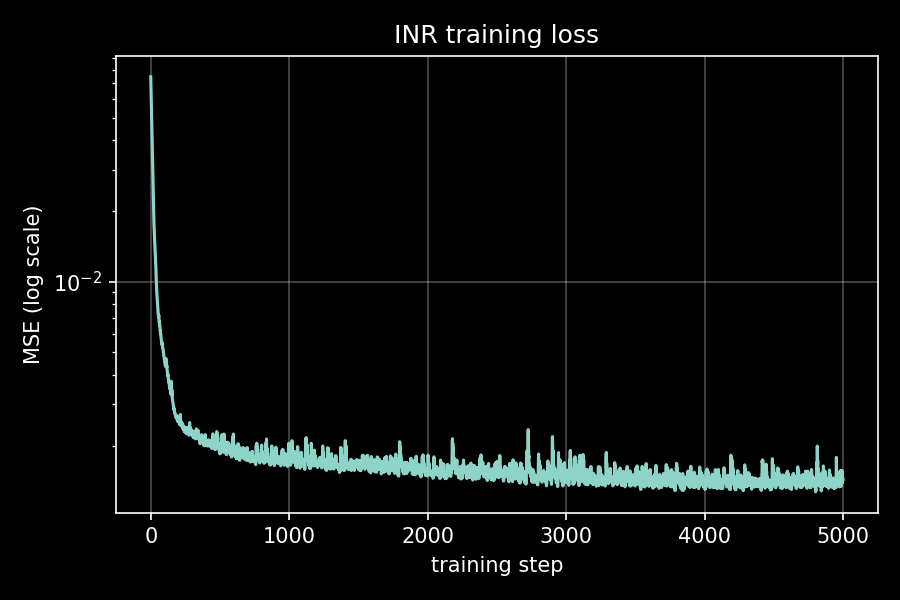
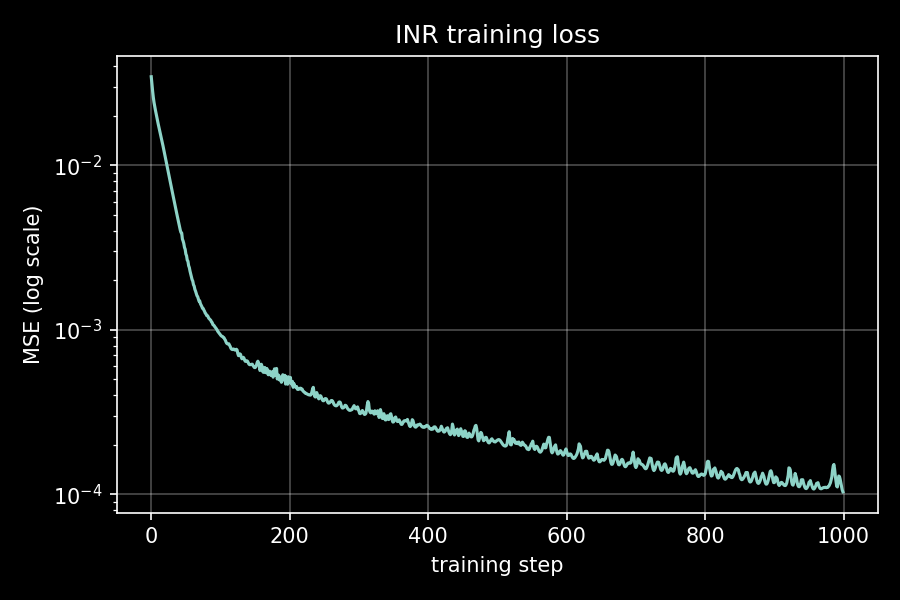
Hyperparam selection for Sirens

diff --git a/implicit_neral_reps/train_inr.py b/implicit_neral_reps/train_inr.py
@@ -36,15 +36,17 @@ USE_FOURIER_FEATURES = False  # <-- flip this to False to feed raw (x, y) coords
 NUM_FOURIER_FREQS = 1  # only used when USE_FOURIER_FEATURES = True
 INR_WIDTH = 12
 INR_DEPTH = 6
-NUM_STEPS = 5000
-LR = 3e-3
+NUM_STEPS = 1000
+LR = 1e-3
 SEED = 0
 DTYPE = (
     jnp.float32
 )  # float32 throughout; bf16 causes needless precision headaches for a demo
 
 # INPUT_IMAGE_PATH = "pusht.webp"
-INPUT_IMAGE_PATH = "ogbench.png"
+# INPUT_IMAGE_PATH = "ogbench.png"
+# INPUT_IMAGE_PATH = "tworoom.png"
+INPUT_IMAGE_PATH = "reacher.png"
 OUT_DIR = "./"
 os.makedirs(OUT_DIR, exist_ok=True)
 
@@ -338,7 +340,7 @@ model = INR(
     width=INR_WIDTH,
     depth=INR_DEPTH,
     key=model_key,
-    omega_min=5.0,
+    omega_min=10.0,
     omega_max=60.0,
 )
 model = siren_init(model, model_key, init_omega=30.0)
